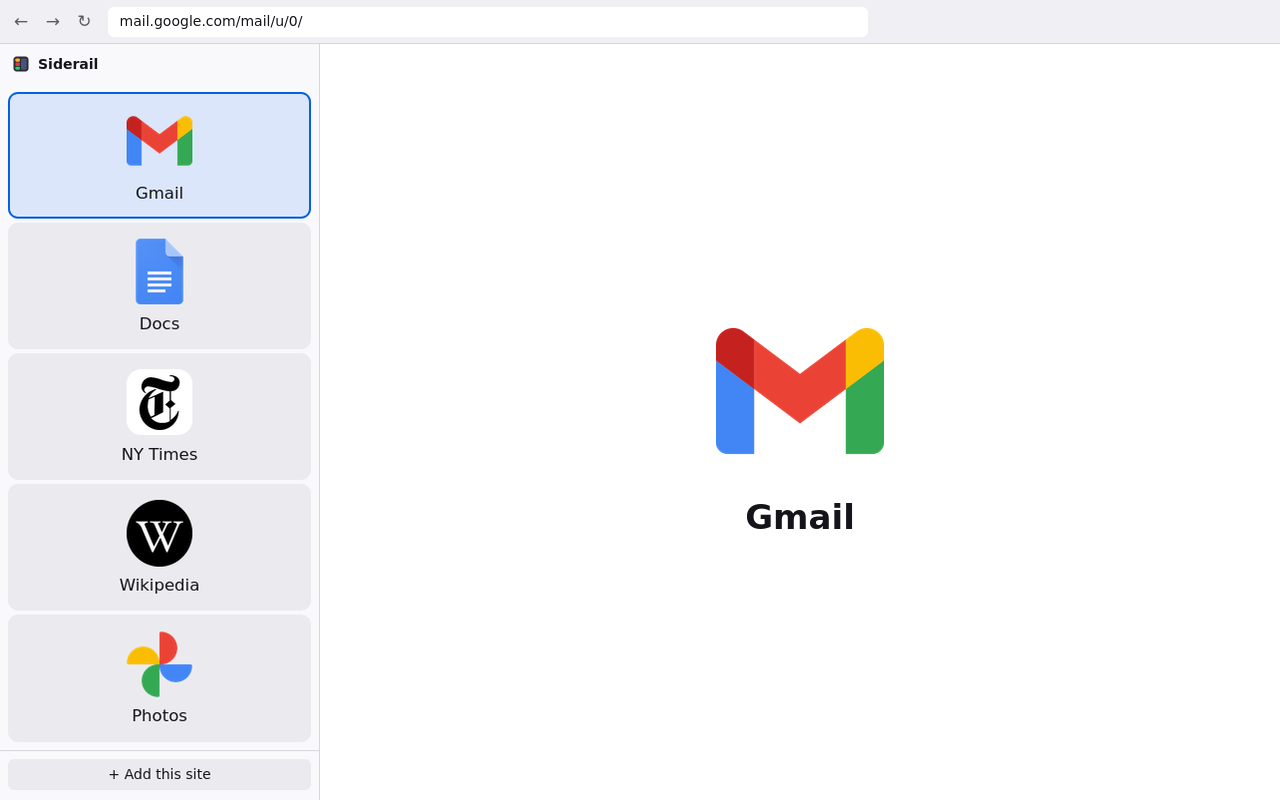
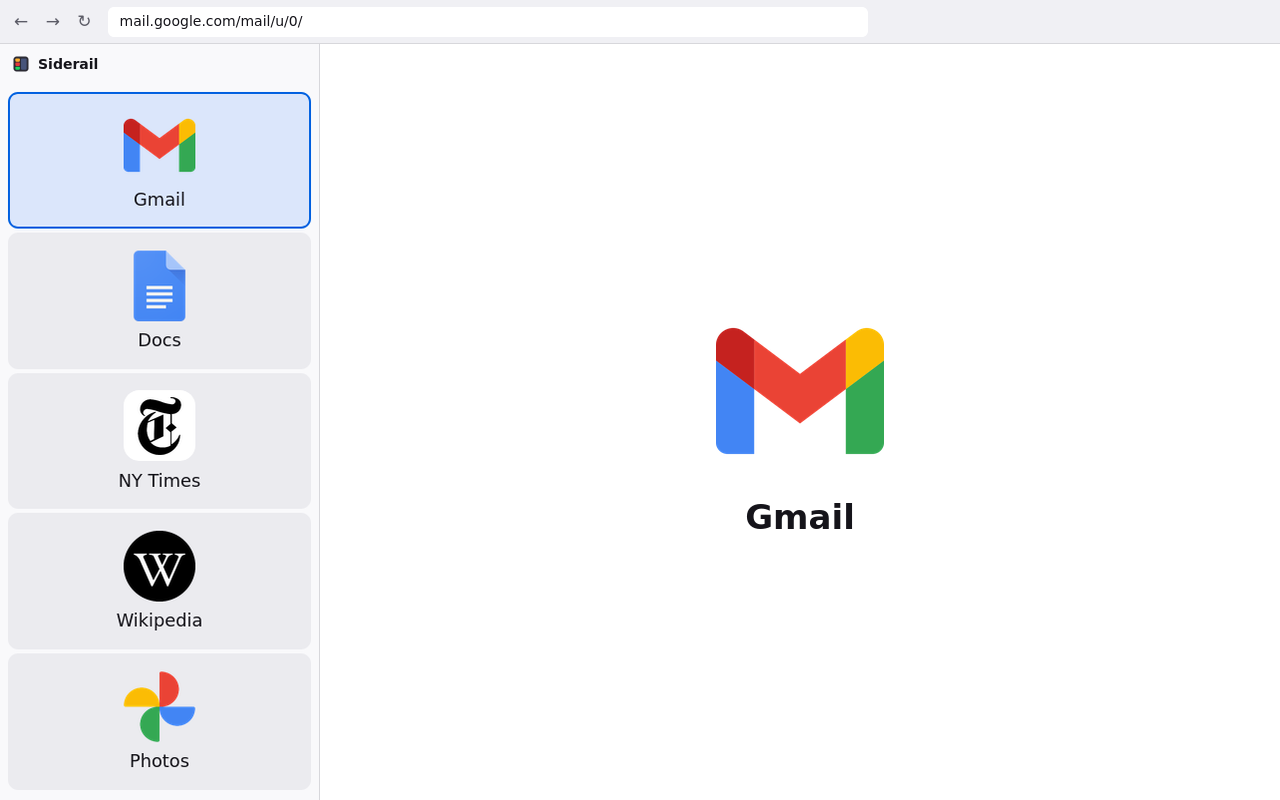
Add sites from the right-click menu, not a button (#6)
The "+ Add this site" button at the bottom of the sidebar invited whoever
uses it (kids, say) to change the list. Adding is now in the right-click
menu: at the bottom of a site button's menu, or on its own when
right-clicking anywhere else in the sidebar.

- The empty sidebar keeps an "Add this site" link, for setting it up
- The footer only shows when it has a message (Undo, errors)
- e2e tests and the screenshot script add sites through the menu; a new
  test checks there's no visible add button
- README and the README/AMO screenshots updated

Changed region(s): [[0.0938, 0.4688, 0.1562, 0.9688], [0.0, 0.1562, 0.25, 0.4375]]

diff --git a/extension/sidebar/sidebar.js b/extension/sidebar/sidebar.js
@@ -32,7 +32,6 @@ const MAX_RESULTS = 24;
 const main = document.getElementById("main");
 const footer = document.getElementById("footer");
 const statusLine = document.getElementById("status");
-const addButton = document.getElementById("add");
 
 let sites = [];
 // The current tab's address and the saved site it belongs to.
@@ -127,7 +126,8 @@ function renderList() {
         "div",
         { class: "empty" },
         h("p", {}, "No sites yet."),
-        h("p", {}, "Open a website, then press “Add this site”."),
+        h("p", {}, "Open a website, then right-click here and choose “Add this site”."),
+        h("p", {}, h("button", { type: "button", class: "link", onclick: addThisSite }, "Add this site")),
         h("p", {}, h("button", { type: "button", class: "link", onclick: () => browser.runtime.openOptionsPage() }, "Import a backup")),
       ),
     );
@@ -153,7 +153,6 @@ function tile(site) {
         e.preventDefault();
         openSite(site, true);
       },
-      oncontextmenu: (e) => showMenu(e, site),
     },
     h("span", { class: "in" }, iconFor(site), h("span", { class: "name" }, site.name)),
   );
@@ -168,21 +167,35 @@ function iconFor({ name, icon, plate }) {
 
 // ---- Right-click menu
 
+// Right-clicking a button offers that site's actions and adding a site;
+// anywhere else in the list offers adding a site. Adding lives only here, not
+// on a visible button, so the sidebar is just the sites for whoever uses it.
+document.addEventListener("contextmenu", (e) => {
+  // The editor keeps the browser's own menu, for its text fields.
+  if (draft) return;
+  const id = e.target.closest?.(".tile")?.dataset.id;
+  showMenu(e, sites.find((s) => s.id === id));
+});
+
 function showMenu(e, site) {
   e.preventDefault();
   closeMenu();
-  const i = sites.findIndex((s) => s.id === site.id);
+  const i = site ? sites.findIndex((s) => s.id === site.id) : -1;
   const item = (label, action, disabled = false) =>
     h("button", { type: "button", role: "menuitem", disabled, onclick: () => (closeMenu(), action()) }, label);
   menu = h(
     "div",
     { class: "menu", role: "menu" },
-    item("Edit", () => openEditor(site)),
-    item("Move to top", () => save(moveTo(sites, site.id, 0)), i === 0),
-    item("Move up", () => save(move(sites, site.id, -1)), i === 0),
-    item("Move down", () => save(move(sites, site.id, 1)), i === sites.length - 1),
-    item("Move to bottom", () => save(moveTo(sites, site.id, sites.length - 1)), i === sites.length - 1),
-    item("Remove", () => removeSite(site)),
+    site && [
+      item("Edit", () => openEditor(site)),
+      item("Move to top", () => save(moveTo(sites, site.id, 0)), i === 0),
+      item("Move up", () => save(move(sites, site.id, -1)), i === 0),
+      item("Move down", () => save(move(sites, site.id, 1)), i === sites.length - 1),
+      item("Move to bottom", () => save(moveTo(sites, site.id, sites.length - 1)), i === sites.length - 1),
+      item("Remove", () => removeSite(site)),
+      h("hr", { role: "separator" }),
+    ],
+    item("Add this site", addThisSite),
   );
   document.body.append(menu);
   const box = menu.getBoundingClientRect();
@@ -221,12 +234,13 @@ async function removeSite(site) {
 // requested straight from the click: Firefox only prompts for user actions.
 const requestSiteAccess = () => browser.permissions.request({ origins: ["<all_urls>"] });
 
-addButton.addEventListener("click", () => {
+// Called straight from a click, for requestSiteAccess.
+function addThisSite() {
   // Checked before asking, so a new tab doesn't get a permission prompt
   // followed by "open a website first". startAdd checks again.
   if (!isWeb(activeUrl)) return setStatus("Open a website first, then add it.");
   startAdd(requestSiteAccess());
-});
+}
 
 const isWeb = (url) => /^https?:/.test(url ?? "");
 

diff --git a/test/e2e/sidebar.test.js b/test/e2e/sidebar.test.js
@@ -50,9 +50,15 @@ async function goTo(url) {
   await driver.switchTo().window(railTab);
 }
 
+// Right-clicks the list's background (or the empty sidebar) and picks "Add this site".
+async function addThisSite() {
+  await driver.actions().contextClick(await $("main")).perform();
+  await (await $(".menu")).findElement(By.xpath('./button[.="Add this site"]')).click();
+}
+
 // Opens the editor for the site in the other tab and waits for icon discovery.
 async function addCurrentSite() {
-  await (await $("#add")).click();
+  await addThisSite();
   await $(".editor");
   await driver.wait(async () => (await (await $(".editor .hint")).getText()) !== "Looking for icons…", 2 * WAIT);
 }
@@ -81,13 +87,16 @@ async function hasSiteAccess() {
   return driver.executeAsyncScript("browser.permissions.contains({ origins: ['<all_urls>'] }).then(arguments[0]);");
 }
 
-test("starts empty", async () => {
-  assert.match(await (await $(".empty")).getText(), /No sites yet/);
+test("starts empty, offering to add a site or import a backup", async () => {
+  const empty = await $(".empty");
+  assert.match(await empty.getText(), /No sites yet/);
+  const links = await Promise.all((await empty.findElements(By.css("button"))).map((b) => b.getText()));
+  assert.deepEqual(links, ["Add this site", "Import a backup"]);
 });
 
 test("on a page that isn't a website, adding says so without asking for access", async () => {
   await goTo("about:blank");
-  await (await $("#add")).click();
+  await addThisSite();
   await driver.wait(async () => (await (await $("#status")).getText()).includes("Open a website first"), WAIT);
   // The test profile grants permission requests silently, so a request would show here.
   assert.equal(await hasSiteAccess(), false);
@@ -118,6 +127,17 @@ test("falls back to a letter when a site has only a small favicon", async () => 
   await driver.wait(async () => (await tileNames()).length === 2, WAIT);
   assert.deepEqual(await tileNames(), ["Alpha", "Bravo"]);
   assert.equal(await activeName(), "Bravo");
+});
+
+test("adding a site is only offered from the right-click menu", async () => {
+  const visible = await driver.findElements(By.xpath('//button[contains(., "Add")]'));
+  assert.deepEqual(visible, []);
+  await driver.actions().contextClick(await $(".tile.active")).perform();
+  const labels = await Promise.all((await (await $(".menu")).findElements(By.css("button"))).map((b) => b.getText()));
+  assert.equal(labels.at(0), "Edit");
+  assert.equal(labels.at(-1), "Add this site");
+  await driver.actions().sendKeys(Key.ESCAPE).perform();
+  await driver.wait(async () => (await driver.findElements(By.css(".menu"))).length === 0, WAIT);
 });
 
 test("clicking a button loads the site in the other tab", async () => {
@@ -252,7 +272,7 @@ test("exports the list, icons included, and imports it back", async () => {
   await menu(`${sites.bravo}deep/page`, "Remove");
   await $(".empty");
   const before = await driver.getAllWindowHandles();
-  await (await $(".empty button.link")).click();
+  await (await $(".empty")).findElement(By.xpath('.//button[.="Import a backup"]')).click();
   await driver.wait(async () => (await driver.getAllWindowHandles()).length > before.length, WAIT);
   const importTab = (await driver.getAllWindowHandles()).find((h) => !before.includes(h));
   await driver.switchTo().window(importTab);

diff --git a/extension/sidebar/sidebar.css b/extension/sidebar/sidebar.css
@@ -2,11 +2,8 @@ html, body { height: 100%; }
 body { display: flex; flex-direction: column; }
 main { flex: 1; min-height: 0; overflow: auto; }
 footer { flex: none; padding: 8px; border-top: 1px solid var(--line); }
-footer.hidden { display: none; }
-#status { margin: 0 0 6px; color: var(--muted); font-size: 13px; }
-#status:empty { display: none; }
-
-#add { width: 100%; }
+footer.hidden, footer:has(#status:empty) { display: none; }
+#status { margin: 0; color: var(--muted); font-size: 13px; }
 
 /* Buttons share the height evenly up to a cap, so a few sites get big
    buttons and many sites get compact rows. */
@@ -76,6 +73,7 @@ footer.hidden { display: none; }
 .menu button { display: block; width: 100%; text-align: left; background: none; }
 .menu button:hover:not(:disabled) { background: var(--tile-hover); }
 .menu button:disabled { color: var(--muted); cursor: default; }
+.menu hr { margin: 4px 0; border: none; border-top: 1px solid var(--line); }
 
 /* Editor */
 .editor { padding: 12px; display: flex; flex-direction: column; gap: 12px; }

diff --git a/scripts/screenshots.js b/scripts/screenshots.js
@@ -148,7 +148,8 @@ async function goTo(url) {
 // click: Firefox only grants the add-on access to sites from user input.
 async function openAdd(url, address) {
   await goTo(url);
-  await (await $("#add")).click();
+  await driver.actions().contextClick(await $("main")).perform();
+  await (await $(".menu")).findElement(By.xpath('./button[.="Add this site"]')).click();
   await driver.wait(async () => (await (await $(".editor .hint")).getText()) !== "Looking for icons…", 10000);
   // The editor saw the stand-in's http:// address; put the real one back, as
   // if typed. Focus stays in Name, as when the editor opens.

diff --git a/extension/sidebar/sidebar.html b/extension/sidebar/sidebar.html
@@ -11,7 +11,6 @@
   <main id="main"></main>
   <footer id="footer">
     <p id="status" role="status"></p>
-    <button id="add" type="button">+ Add this site</button>
   </footer>
 </body>
 </html>

diff --git a/README.md b/README.md
@@ -20,7 +20,7 @@ It started as a launcher for a living-room PC, but nothing in it is TV-specific:
 
 ## Using it
 
-- **Add a site:** open it, then press **+ Add this site** at the bottom of the sidebar. Siderail suggests a name, a home address and the best icon it found; change any of them, then **Save**.
+- **Add a site:** open it, then right-click anywhere in the sidebar and choose **Add this site**. Siderail suggests a name, a home address and the best icon it found; change any of them, then **Save**.
 - **Open a site:** click its button to load it in the current tab. Ctrl-, Shift- or middle-click opens it in a new tab.
 - **Edit, reorder or remove:** right-click a button. Reorder one step at a time, or straight to the top or bottom. **Undo** under the buttons brings back a site you removed by mistake.
 - **Icons:** in the editor, pick any of the icons found, the letter, **Upload…**, or **Search…** to find one in [dashboard-icons](https://github.com/homarr-labs/dashboard-icons) by the app's name (it starts from the site's name; arrow keys and Enter work too). That matters most for self-hosted apps, which often have no large icon of their own: when the site's name or host is exactly the name of an app there (Jellyfin, `sonarr.home.lan`), its icon is offered by itself, after any icons the site has. You can also paste or drop an image onto the editor. **Light background behind the icon** puts a white square behind dark logos; Siderail ticks it automatically for mostly-black icons on transparency.
@@ -85,7 +85,7 @@ GitHub Actions runs `just check` on every pull request and push to `main` (`.git
 
 - **What's in them:** the scene file has named site lists (`tv`, `family`) and the shots: which list, the size and theme, the page open in the current tab (its button is highlighted) and, for the editor, the site being added.
 - **Icons** come from [dashboard-icons](https://github.com/homarr-labs/dashboard-icons) by name (`"plex"`), or any URL (NY Times is from [selfh.st/icons](https://github.com/selfhst/icons)), pinned to a commit so the images only change when the scene does. Generating them needs internet access for the icons only.
-- **How:** `scripts/screenshots.js` reuses the e2e setup (`test/e2e/browser.js`) and sends all of Firefox's traffic through a local proxy that serves a stand-in page for each site, so no real site is visited. The one exception is dashboard-icons at the scene's pinned commit, which the editor's icon search reads. Each stand-in's manifest offers the scene's icon, and every site is added through the real **+ Add this site** editor, so icon sizing and the light background are decided by the add-on itself. HSTS preloading and https upgrades are turned off for this.
+- **How:** `scripts/screenshots.js` reuses the e2e setup (`test/e2e/browser.js`) and sends all of Firefox's traffic through a local proxy that serves a stand-in page for each site, so no real site is visited. The one exception is dashboard-icons at the scene's pinned commit, which the editor's icon search reads. Each stand-in's manifest offers the scene's icon, and every site is added through the real **Add this site** editor, so icon sizing and the light background are decided by the add-on itself. HSTS preloading and https upgrades are turned off for this.
 - **The listing's shots** (the scene's `amo` section) are 1280×800, the size AMO shows. Each puts the sidebar's own shot in a sketch of a Firefox window: a toolbar with the page's address, the sidebar, and the page drawn as that site's icon and name. Their captions are in the scene file too. `just amo-screenshots`, or running the `amo-screenshots` workflow on GitHub (which uses the repository's secrets), uploads them to the listing in the scene's order and removes the old ones. AMO allows 10 edits an hour and 24 a day per account, counting each upload, caption, deletion and release submission; three screenshots take about eight, so an upload can pause for up to an hour, waiting as AMO asks.
 - Output is byte-identical between runs on the same machine; fonts come from the system, so another machine may differ slightly.
 
@@ -110,6 +110,7 @@ These were settled while designing it. Revisit them only with a reason.
 - **One column.** A wider sidebar makes bigger buttons, not more columns.
 - **Large icons or nothing.** Scaled-up 16px favicons were mocked up and rejected as too blurry. The fallback is a letter tile, never a favicon.
 - **SVG icons stay SVG; others become 192px PNGs.** 192px covers the largest button (about 83 CSS pixels) on a 2× screen, but a TV scaled to 3× needs more, and SVGs are sharp at any size. SVGs over 100 KB (usually an embedded photo) become PNGs too, and one with a width and height but no `viewBox` gets one, so it scales.
+- **Adding sites is in the right-click menu, not a button.** The sidebar shows only the sites, so whoever uses it (a child, say) isn't invited to change the list. The empty sidebar still has an **Add this site** link, for setting it up.
 - **Reorder from the right-click menu, not by dragging.** The list is set up once and rarely changed, so drag to reorder isn't worth its edge cases (telling clicks from drags, links dragging out of the sidebar, flaky WebDriver tests). The menu also works from the keyboard. See [#1](https://github.com/jonocodes/siderail/issues/1).
 - **No custom layouts.** Letting users supply their own HTML, or load a dashboard site into the sidebar with its links redirected into the main tab, was considered and dropped.
 - **Firefox only.** Chrome's side panel can't reopen by itself when the browser starts, which defeats a launcher that should always be there. Chrome also only installs extensions automatically through machine-wide policy.
